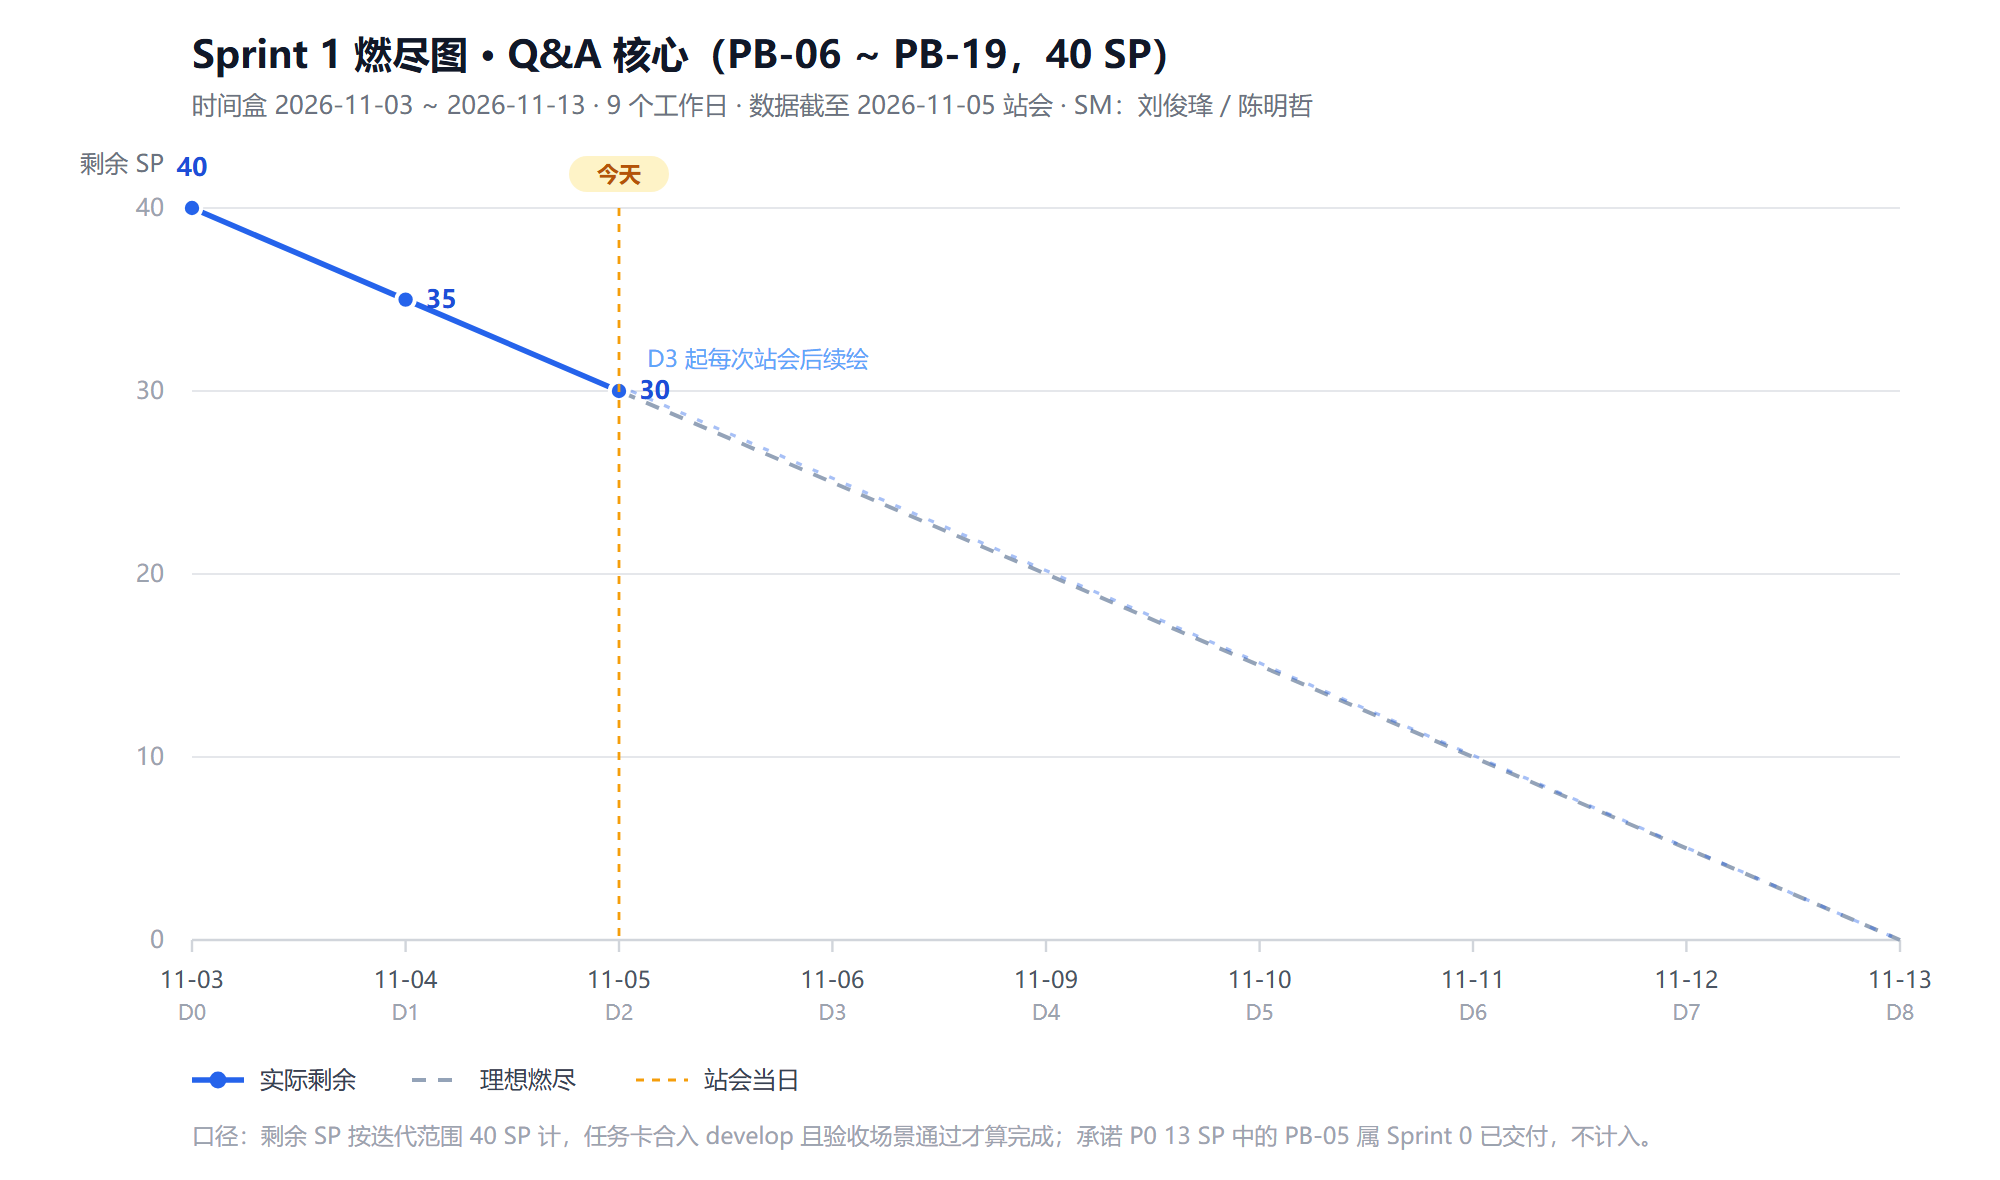
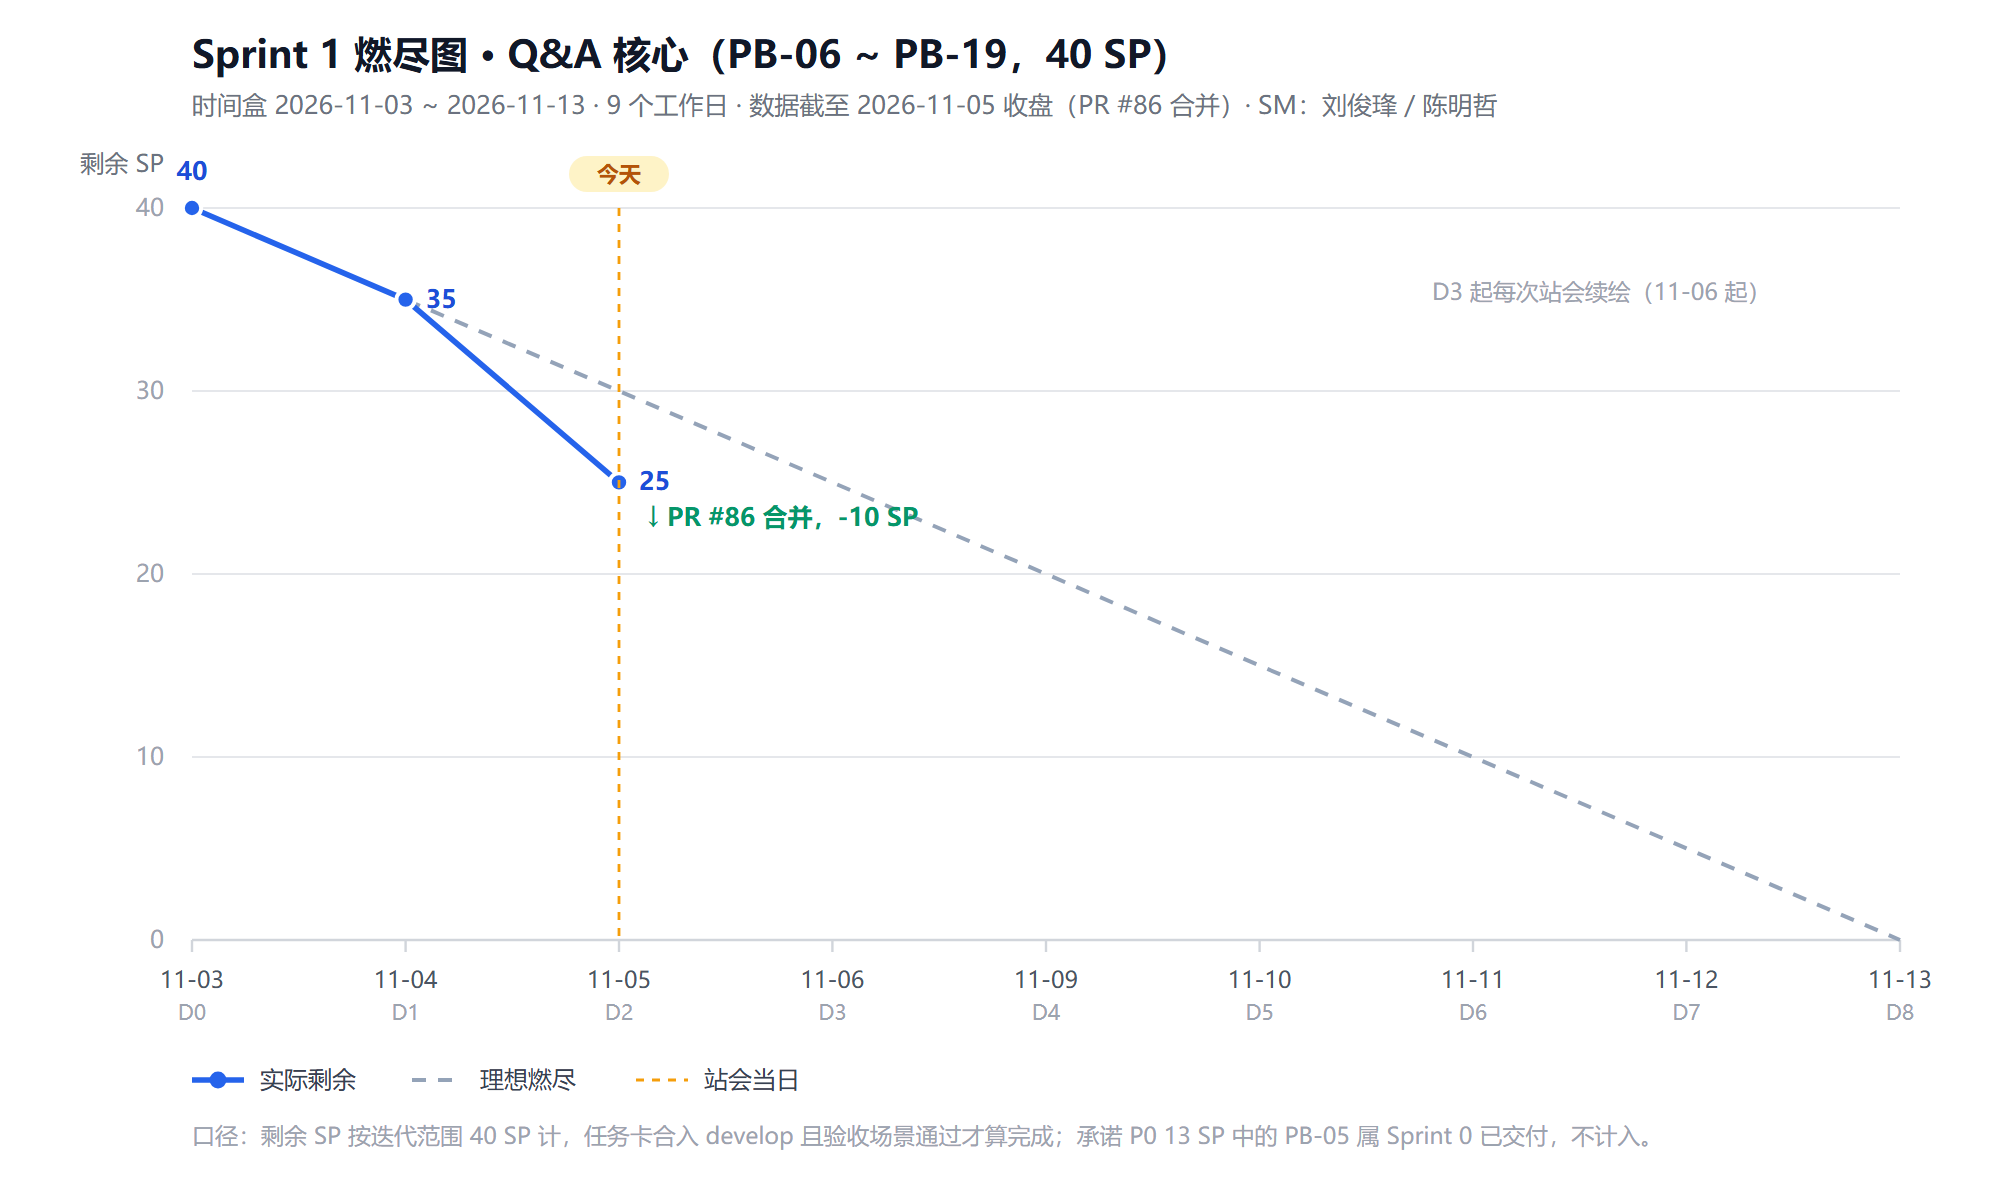
docs(scrum): 看板推进到 11-05 收盘状态，燃尽图更新至 25 SP
- 看板：T2-01 / T2-03 / T3-01 / T4-01 推入 Done（均随 PR #86 合入），To Do 余 8 张；补分工偏差说明（T2-01 计划登记为 D，实际由 A 交付）
- 燃尽图：实际线 D0 40 → D1 35 → D2 25，标注 11-05 合并 -10 SP
- sprint-1.md：风险表两条转「已解除」，检查清单打勾，新增看板小节
- lab4-submission/README：补合并结果（3f96258）、qa-domain 42 + qa-application 28 全绿、#33/#34 已补关

diff --git a/docs/scrum/sprint-1.md b/docs/scrum/sprint-1.md
@@ -53,6 +53,9 @@
 - `POST /api/v1/questions` → 201 → `GET /api/v1/questions/1` → 200 → 列表 `total=1` → `qa_question` 落库一行，证据见 [`docs/lab4-submission/`](../lab4-submission/README.md)。
 - **阻塞升级**：`AnswerAndVoteServiceTest` 2 条在 `develop` 上即为红（期望 1L/2L 与实际 2L/1L 对调），卡住 CI 与 PR #86 合并；已定位到 `AnswerCommandService` 构造事件的参数顺序，转 B 处理。
 
+- **阻塞解除**：B 的 `fix/lab4-answer-events`（PR #89）修掉事件构造参数顺序，`AnswerAndVoteServiceTest` 转绿；PR #86 于 11:00 合并进 `develop`（合并提交 `3f96258`），评审 @qing963666、@2123345397-star 均 `APPROVED`。
+- 合并后在 `develop` 重跑：`co-qa-domain` 42 条、`co-qa-application` 28 条，全部通过；PB-06 #32 自动关闭，#33 / #34 补关。
+
 ## 三、燃尽图与数据
 
 口径：纵轴为 Sprint 1 **迭代范围 40 SP**（PB-06～PB-19）中尚未完成的部分；「完成」指任务卡代码合入 `develop` 且对应验收场景通过。承诺 P0 的 13 SP 含 Sprint 0 已交付的 PB-05（3 SP），不计入本图。
@@ -60,26 +63,37 @@
 | 日期 | 工作日 | 理想剩余 | 实际剩余 | 当日完成 |
 | --- | --- | --- | --- | --- |
 | 11-03 | D0 | 40 | 40 | 计划会，未开工 |
-| 11-04 | D1 | 35 | 35 | PB-11 投票（3）、PB-15 评论（2） |
-| 11-05 | D2 | 30 | 30 | PB-09～PB-13 的问题侧代码完成，待随 PR #86 合并 |
-| 11-06 起 | D3～D8 | 25 → 0 | 待续绘 | 每次站会后由 SM 更新 |
+| 11-04 | D1 | 35 | 35 | PB-11 投票（3）、PB-15 评论（2）随 PR #78 合入 |
+| 11-05 | D2 | 30 | 25 | PB-09～PB-13 问题侧 10 点随 PR #86 合入（11:00 合并，站会时点为 35，收盘 25） |
+| 11-06 起 | D3～D8 | 20 → 0 | 待续绘 | 每次站会后由 SM 更新 |
 
 ![Sprint 1 燃尽图](sprint-1-burndown.png)
 
-## 四、风险与对策
+## 四、看板状态（更新于 11-05 收盘）
+
+![Sprint 1 看板](../sprint-1-backlog.png)
+
+- **Done 4 张**：T2-01（发布问题领域层与应用层）、T2-03（US-02 端到端验收）、T3-01（列表与分页接口）、T4-01（详情接口），均随 PR #86 合入 `develop`。
+- **To Do 8 张**：T1-01～T1-03（注册）、T2-02（提问页）、T3-02 / T3-03（列表页与验收）、T4-02 / T4-03（详情页与验收）。
+- In Progress / In Review 为 0：本方任务卡已全部流出，剩余卡在等待前端（D）与验收（E）。
+
+**分工偏差说明**：`sprint-1-plan.md` 中 T2-01「发布问题领域层与应用层」登记责任人为 D（房国栋），实际由 A（刘俊琒）交付——角色卡 A 的职责本身就是 `Question` 聚合、`QuestionCommandService`、`QuestionQueryService`、`QaQueryApiImpl`，与 T2-01 描述重叠。T2-03（US-02 验收与前后端联调）原就登记为 A，已一并完成。看板脚注同步标注，评审时以角色卡分工为准。
+
+## 五、风险与对策
 
 | 风险 | 影响 | 对策 | 状态 |
 | --- | --- | --- | --- |
-| CI 在 `AnswerAndVoteServiceTest` 红 | PR #86 无法合并，S1 门禁不通过 | 已定位为事件构造参数顺序错位，转 B 修；同时在 PR 中附「干净 `develop` 同样失败」的证据排除本方引入 | 处理中 |
-| 作者不能批准自己的 PR | PR 停在 `blocked` | 已指定 E（@cmz666-BOT）评审，站会上当面确认 | 处理中 |
+| CI 在 `AnswerAndVoteServiceTest` 红 | PR #86 无法合并，S1 门禁不通过 | 定位为事件构造参数顺序错位，转 B 修；B 的 PR #89 已修复，合并后 qa 两模块 42 + 28 条全绿 | 已解除 |
+| 作者不能批准自己的 PR | PR 停在 `blocked` | 指定 E（@cmz666-BOT）评审；最终 @qing963666、@2123345397-star 两名非作者 `APPROVED` 后合并 | 已解除 |
 | 本机无 Docker，MySQL/Redis 起不来 | 端到端无法验证 | 用 MySQL 8.0.44 临时实例（3307）+ Redis 5.0.14 移植版启动，`spring.config.additional-location` 覆盖数据源 | 已解除 |
 | 事件字段顺序缺少契约测试 | 跨上下文消费方静默错位 | 建议在 `co-qa-api` 事件 record 上加构造顺序注释，并由 B 补契约测试 | 待办 |
 
-## 五、评审前检查清单
+## 六、评审前检查清单
 
 - [x] Sprint 1 计划与容量计算在仓库中（`docs/sprint/sprint-1-plan.md`）
 - [x] 每日站会有记录、燃尽图有折线（本文件 + `sprint-1-burndown.png`）
 - [x] 任务卡与责任人对齐（T1-01～T4-03）
 - [x] P0 的验收场景有对应实现与证据（`docs/lab4-submission/`）
-- [ ] CI 全绿（依赖 B 修复 `AnswerAndVoteServiceTest`）
-- [ ] PR #86 获得 ≥1 名非作者 Approve
+- [x] CI 全绿（B 的 PR #89 修复后，`co-qa-domain` 42 条、`co-qa-application` 28 条通过）
+- [x] PR #86 获得 2 名非作者 Approve（@qing963666、@2123345397-star），已于 11-05 合并
+- [x] 关联 Issue 全部关闭（#32 自动、#33 / #34 补关）

diff --git a/docs/lab4-submission/README.md b/docs/lab4-submission/README.md
@@ -58,10 +58,17 @@ mvn -f backend/pom.xml -pl co-qa/co-qa-application -am test \
 作为 Sprint 1 的 SM，评审前需要的文档已补齐：
 
 - Sprint 1 执行记录（计划会结论、两次站会、风险与对策）：[`docs/scrum/sprint-1.md`](../scrum/sprint-1.md)
-- 燃尽图（迭代范围 40 SP，数据截至 11-05 站会，后续站会续绘）：[`docs/scrum/sprint-1-burndown.png`](../scrum/sprint-1-burndown.png)
+- 燃尽图（迭代范围 40 SP，11-05 收盘剩余 25）：[`docs/scrum/sprint-1-burndown.png`](../scrum/sprint-1-burndown.png)
+- Sprint 1 看板（T2-01 / T2-03 / T3-01 / T4-01 已推进到 Done）：[`docs/sprint-1-backlog.png`](../sprint-1-backlog.png)
 - PR 已挂 `Closes #32, #33, #34`（PB-06 发布问题 / PB-07 列表 / PB-08 详情）。
 
-## 5. 还没做完 / 需要别人接手
+## 5. 合并与验证结果
 
-1. **PR 需要 E 或 B 点 Approve**：GitHub 上作者不能批准自己的 PR，我这侧只能把描述、证据和自检结果补齐。
-2. `AnswerAndVoteServiceTest` 的 2 条红（B 的 T1-03），CI 因此仍是红的；本 PR 的 19 条测试全绿，切到干净 `develop` 也一样红，可据此排除是我引入。
+- **PR #86 已于 2026-11-05 11:00 合并进 `develop`**（合并提交 `3f96258`，8 个提交、14 个文件、+1093/−22）；评审记录：@qing963666、@2123345397-star 均为 `APPROVED`。
+- 合并后切到 `develop` 重跑：`co-qa-domain` **42 条**、`co-qa-application` **28 条**，全部通过。此前 2 条红（`AnswerAndVoteServiceTest`）已由 B 的 `fix/lab4-answer-events`（PR #89）修掉。
+- Issue 关闭：PB-06 #32 随合并自动关闭；**#33 / #34 由我补关**（PR 里一条 `Closes #32, #33, #34` 只自动关了首个编号，已纠正写法，今后一条 `Closes` 只带一个编号）。
+
+## 6. 后续（Sprint 1 剩余）
+
+- 燃尽图按每次站会续绘，D3（11-06）起数据待补。
+- Sprint 1 范围 PB-06～PB-19 中，PB-09～PB-13 问题侧已随 #86 落地，回答/投票/评论由 B、C 推进，通知与前端由 C、D 推进。
